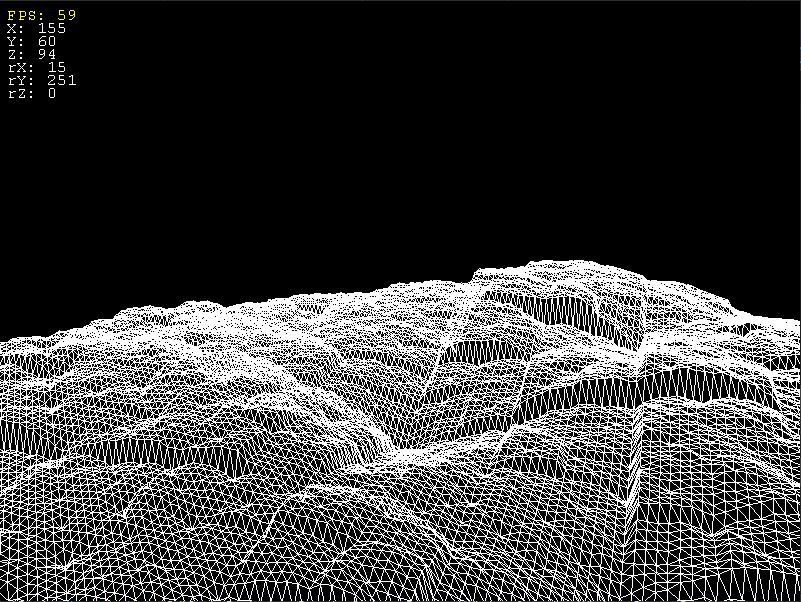
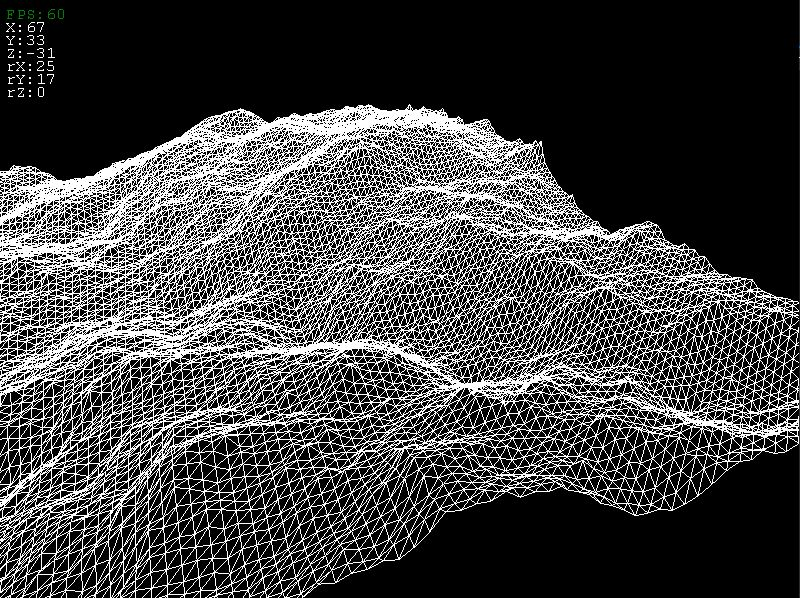
Adjust random number generation for fractal; add random limit to setup file; adjust initial camera position

diff --git a/FractalTerrain/Fractal.cpp b/FractalTerrain/Fractal.cpp
@@ -111,8 +111,8 @@ void Fractal::CalculateSidepoint(float max_height, int lt_x, int lt_y, int br_x,
           top_right = (*this)(br_x, lt_y),
           bottom_right = (*this)(br_x, br_y);
 
-    //random_value = (rand() % (2 * (int)max_height * 100) - max_height * 100) / 100.f;
-    float random_value = (rand() % ((int)max_height * 100)) / 100.f;
+    float random_value = (rand() % (2 * (int)max_height * 100) - max_height * 100) / 100.f;
+    //float random_value = (rand() % ((int)max_height * 100)) / 100.f;
 
     // left
     if (lt_x-dist > 0)
@@ -148,17 +148,9 @@ void Fractal::CalculateMidpint(float max_height, int lt_x, int lt_y, int br_x, i
   }
   else
   {
-    int midpoint_x = (lt_x + br_x) / 2;
-    int midpoint_y = (lt_y + br_y) / 2;
+    float random_value = (rand() % (2 * (int)max_height * 100) - max_height * 100) / 100.f;
+    //float random_value = (rand() % ((int)max_height * 100)) / 100.f;
 
-    float top_left = (*this)(lt_x, lt_y),
-      bottom_left = (*this)(lt_x, br_y),
-      top_right = (*this)(br_x, lt_y),
-      bottom_right = (*this)(br_x, br_y);
-
-    float random_value = (rand() % ((int)max_height * 100)) / 100.f;
-
-    // set square array midpoint
-    (*this)(midpoint_x, midpoint_y) = (top_left + bottom_left + bottom_right + top_right) / 4 + random_value;
+    (*this)((lt_x + br_x) / 2, (lt_y + br_y) / 2) = ((*this)(lt_x, lt_y) + (*this)(lt_x, br_y) + (*this)(br_x, lt_y) + (*this)(br_x, br_y)) / 4 + random_value;
   }
 }

diff --git a/FractalTerrain/Zone.cpp b/FractalTerrain/Zone.cpp
@@ -34,7 +34,7 @@ bool Zone::Initialize(D3D *d3d, HWND hwnd, int width, int height, float depth)
   m_cam = new Camera;
   if (!m_cam) return false;
 
-  m_cam->SetPosition(0.f, 0.f, -10.f);
+  m_cam->SetPosition(0.f, 0.f, 10.f);
   m_cam->Render();
   m_cam->RenderBaseViewMatrix();
 
@@ -51,7 +51,8 @@ bool Zone::Initialize(D3D *d3d, HWND hwnd, int width, int height, float depth)
   m_pos = new Position;
   if (!m_pos) return false;
 
-  m_pos->SetPosition(m_terrain->GetTerrainHeight()/2.f, 10.f, -m_terrain->GetTerrainHeight() / 2.f);
+  float zone_pos = m_terrain->GetTerrainHeight() / 2.f;
+  m_pos->SetPosition(zone_pos, zone_pos/2.f, -zone_pos);
   m_pos->SetRotation(0.f, 0.f, 0.f);
 
   m_displayUI = true;

diff --git a/FractalTerrain/Terrain.cpp b/FractalTerrain/Terrain.cpp
@@ -175,6 +175,12 @@ bool Terrain::LoadSetupFile(char *setup_filename)
 
   ifs >> m_terrainRoughness;
 
+  ifs.get(input);
+  while (input != ':')
+    ifs.get(input);
+
+  ifs >> m_maxRandom;
+
   ifs.close();
 
   return true;
@@ -183,7 +189,7 @@ bool Terrain::LoadSetupFile(char *setup_filename)
 bool Terrain::LoadHeightMap()
 {
   Fractal fractal_heightmap;
-  if (!fractal_heightmap.Initialize(m_terrainWidth, m_terrainHeight, MAX_HEIGHT_DEFAULT, m_terrainRoughness))
+  if (!fractal_heightmap.Initialize(m_terrainWidth, m_terrainHeight, m_maxRandom, m_terrainRoughness))
     return false;
 
   if (!fractal_heightmap.Generate())

diff --git a/FractalTerrain/Terrain.h b/FractalTerrain/Terrain.h
@@ -6,8 +6,6 @@
 #include "stdafx.h"
 #include "Fractal.h"
 
-#define MAX_HEIGHT_DEFAULT 257
-
 class Terrain
 {
 public:
@@ -36,6 +34,7 @@ private:
   ID3D11Buffer *m_vertexBuffer, *m_idxBuffer;
   int m_vertexCount, m_idxCount;
   int m_terrainHeight, m_terrainWidth;
+  float m_maxRandom;
   float m_heightScale;
   float m_terrainRoughness;
   HeightMap_T* m_heightMap;

diff --git a/FractalTerrain/Fractal.h b/FractalTerrain/Fractal.h
@@ -4,8 +4,6 @@
 #include <time.h>
 #include <math.h>
 
-// determine how the range of generated random numbers is reduced at each iteration
-// a high value results in smooth terrain
 
 class Fractal
 {
